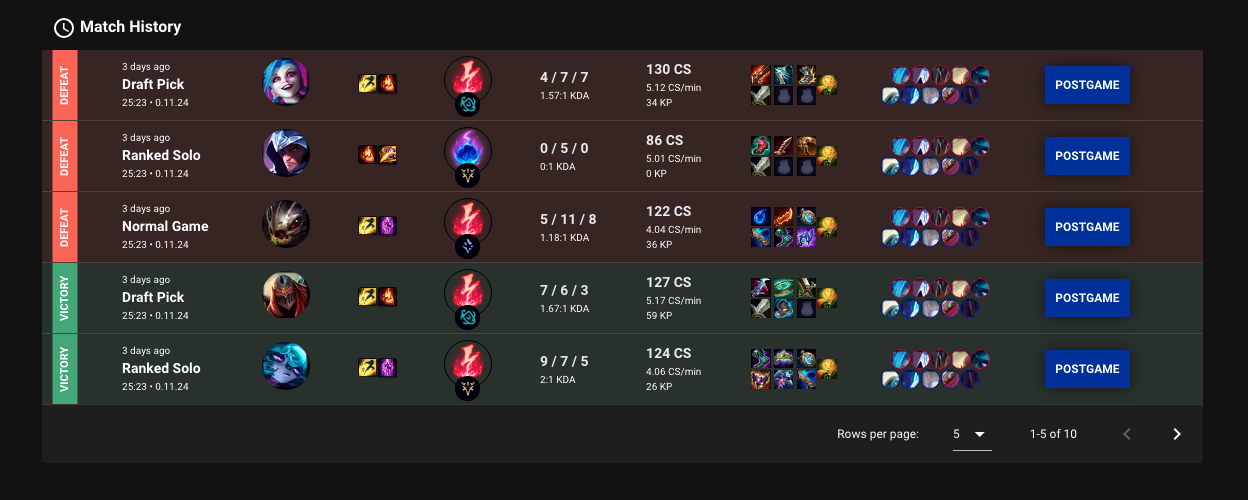
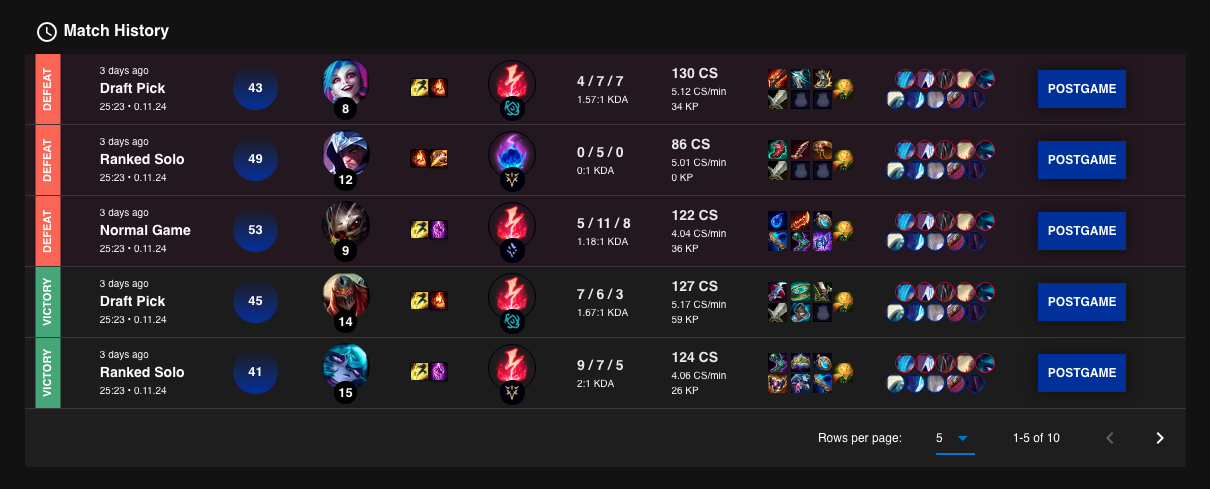
average match rank

Changed region(s): [[0.0306, 0.0307, 0.9785, 0.8589], [0.6727, 0.8589, 0.795, 0.9202], [0.8256, 0.8589, 0.8868, 0.9202]]

diff --git a/components/MatchHistoryTable.vue b/components/MatchHistoryTable.vue
@@ -1,13 +1,23 @@
 <template>
-  <v-data-table :items="matchHistoryList" :items-per-page="5" class="Table flx-sm dir-r-sm jst-s-sm flx-nw-sm ialgn-st-sm">
+  <v-data-table
+    :items="matchHistoryList"
+    :items-per-page="5"
+    class="Table flx-sm dir-r-sm jst-s-sm flx-nw-sm ialgn-st-sm"
+  >
     <template v-slot:item="{ item }">
-      <tr class="MatchRow flx-sm dir-c-sm jst-s-sm ialgn-c-sm Active" :class="item.result=='VICTORY' ? 'Victory' : ''">
-        <td v-for="(col, index) in item" :key="index">
+      <tr
+        class="MatchRow flx-sm dir-c-sm jst-s-sm ialgn-c-sm Active"
+        :class="item.result == 'VICTORY' ? 'Victory' : ''"
+      >
+        <td v-for="(col, index) in item" :key="col.id">
           <div v-if="index == 'result'" class="ResultLabel">
             <Result :matchResult="col" />
           </div>
           <div v-else-if="index == 'summary'">
             <Summary :summary="col" />
+          </div>
+          <div v-else-if="index == 'averageMatchRank'" >
+            <AverageMatchRank :averageMatchRank="col" />
           </div>
           <div v-else-if="index == 'selectedChamp'" class="Champion crs-pntr">
             <SelectedChamp :champImage="col" />
@@ -48,7 +58,7 @@ export default {
     matchHistoryList() {
       // console.log("deneme : ", this.$store.getters.getMatchHistory)
       return this.$store.getters.getMatchHistory;
-    }
+    },
   },
 };
 </script>

diff --git a/assets/css/main.scss b/assets/css/main.scss
@@ -80,6 +80,18 @@ img {
   display: -moz-flex !important;
   display: flex !important;
 }
+.AverageMatchRank {
+  background-image: linear-gradient(#1c1c1d, #172c9f);
+  border-radius: 30px;
+  font-size: 13px !important;
+  padding: 1px 4px 1px 4px;
+  width: 45px;
+  height: 45px;
+  font-weight: bold;
+  display: flex;
+  justify-content: center;
+  align-items: center;
+}
 .MatchRow {
   background-color: #1c1f33;
   box-shadow: 0 0 30px rgb(0 0 0 / 50%);
@@ -130,10 +142,10 @@ img {
 }
 .MatchRow.Active {
   box-shadow: none;
-  background-color: rgba(35, 22, 33, .8);
+  background-color: rgba(35, 22, 33, 0.8);
 }
 .MatchRow.Active.Victory {
-  background-color: rgba(13, 15, 27, .1);
+  background-color: rgba(13, 15, 27, 0.1);
 }
 
 .ResultLabel {

diff --git a/components/AverageMatchRank.vue b/components/AverageMatchRank.vue
@@ -1,0 +1,12 @@
+<template>
+  <div class="Champion crs-pntr">
+    <div class="Image pos-r" style="width: 48px; height: 48px">
+      <div class="AverageMatchRank">{{ averageMatchRank }}</div>
+    </div>
+  </div>
+</template>
+<script>
+export default {
+  props: ["averageMatchRank"],
+};
+</script>
